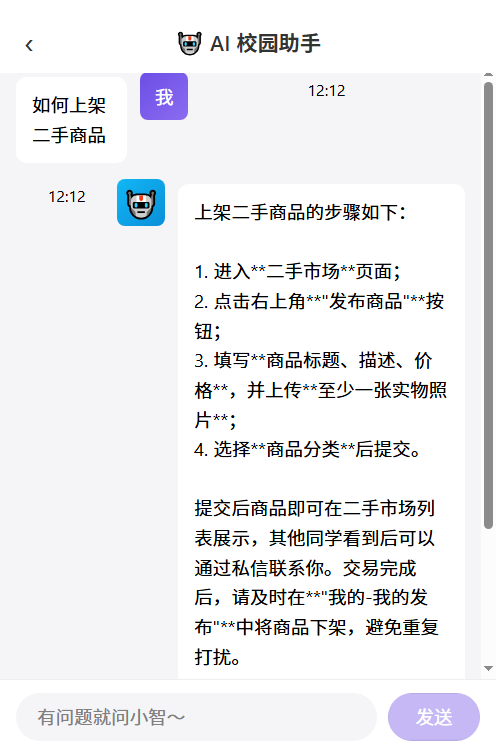
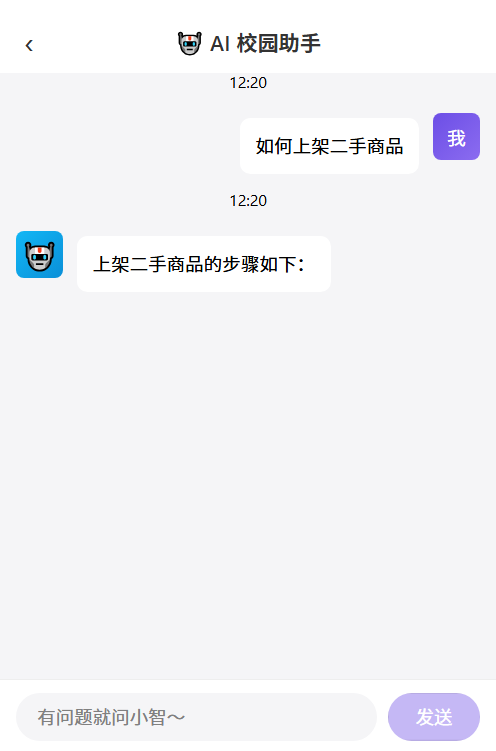
fix: AI 聊天时间戳独立居中行（原结构时间在 flex row 内导致方向错乱）
根因：msg-time 作为 msg-row 的第一个子元素，is-mine 的
row-reverse 连带把时间推到右侧、消息布局视觉错乱。
改为 template v-for 双元素结构：时间独立居中行 + 消息行分离。

diff --git a/frontend/src/pages/ai/chat.vue b/frontend/src/pages/ai/chat.vue
@@ -34,15 +34,11 @@
         </view>
       </view>
 
-      <view
-        class="msg-row"
-        v-for="(msg, index) in messages"
-        :key="index"
-        :class="{ 'is-mine': msg.isMine }"
-      >
-        <!-- 时间 -->
+      <template v-for="(msg, index) in messages" :key="index">
+        <!-- 时间：独立居中行 -->
         <view class="msg-time" v-if="msg.time">{{ msg.time }}</view>
 
+        <view class="msg-row" :class="{ 'is-mine': msg.isMine }">
         <!-- 头像 -->
         <view class="avatar-box">
           <view v-if="msg.isMine" class="avatar my-avatar">
@@ -59,7 +55,8 @@
             <text class="bubble-text">{{ msg.content }}<text v-if="msg.typing" class="cursor">▌</text></text>
           </view>
         </view>
-      </view>
+        </view>
+      </template>
 
       <view style="height: 30rpx"></view>
     </scroll-view>
